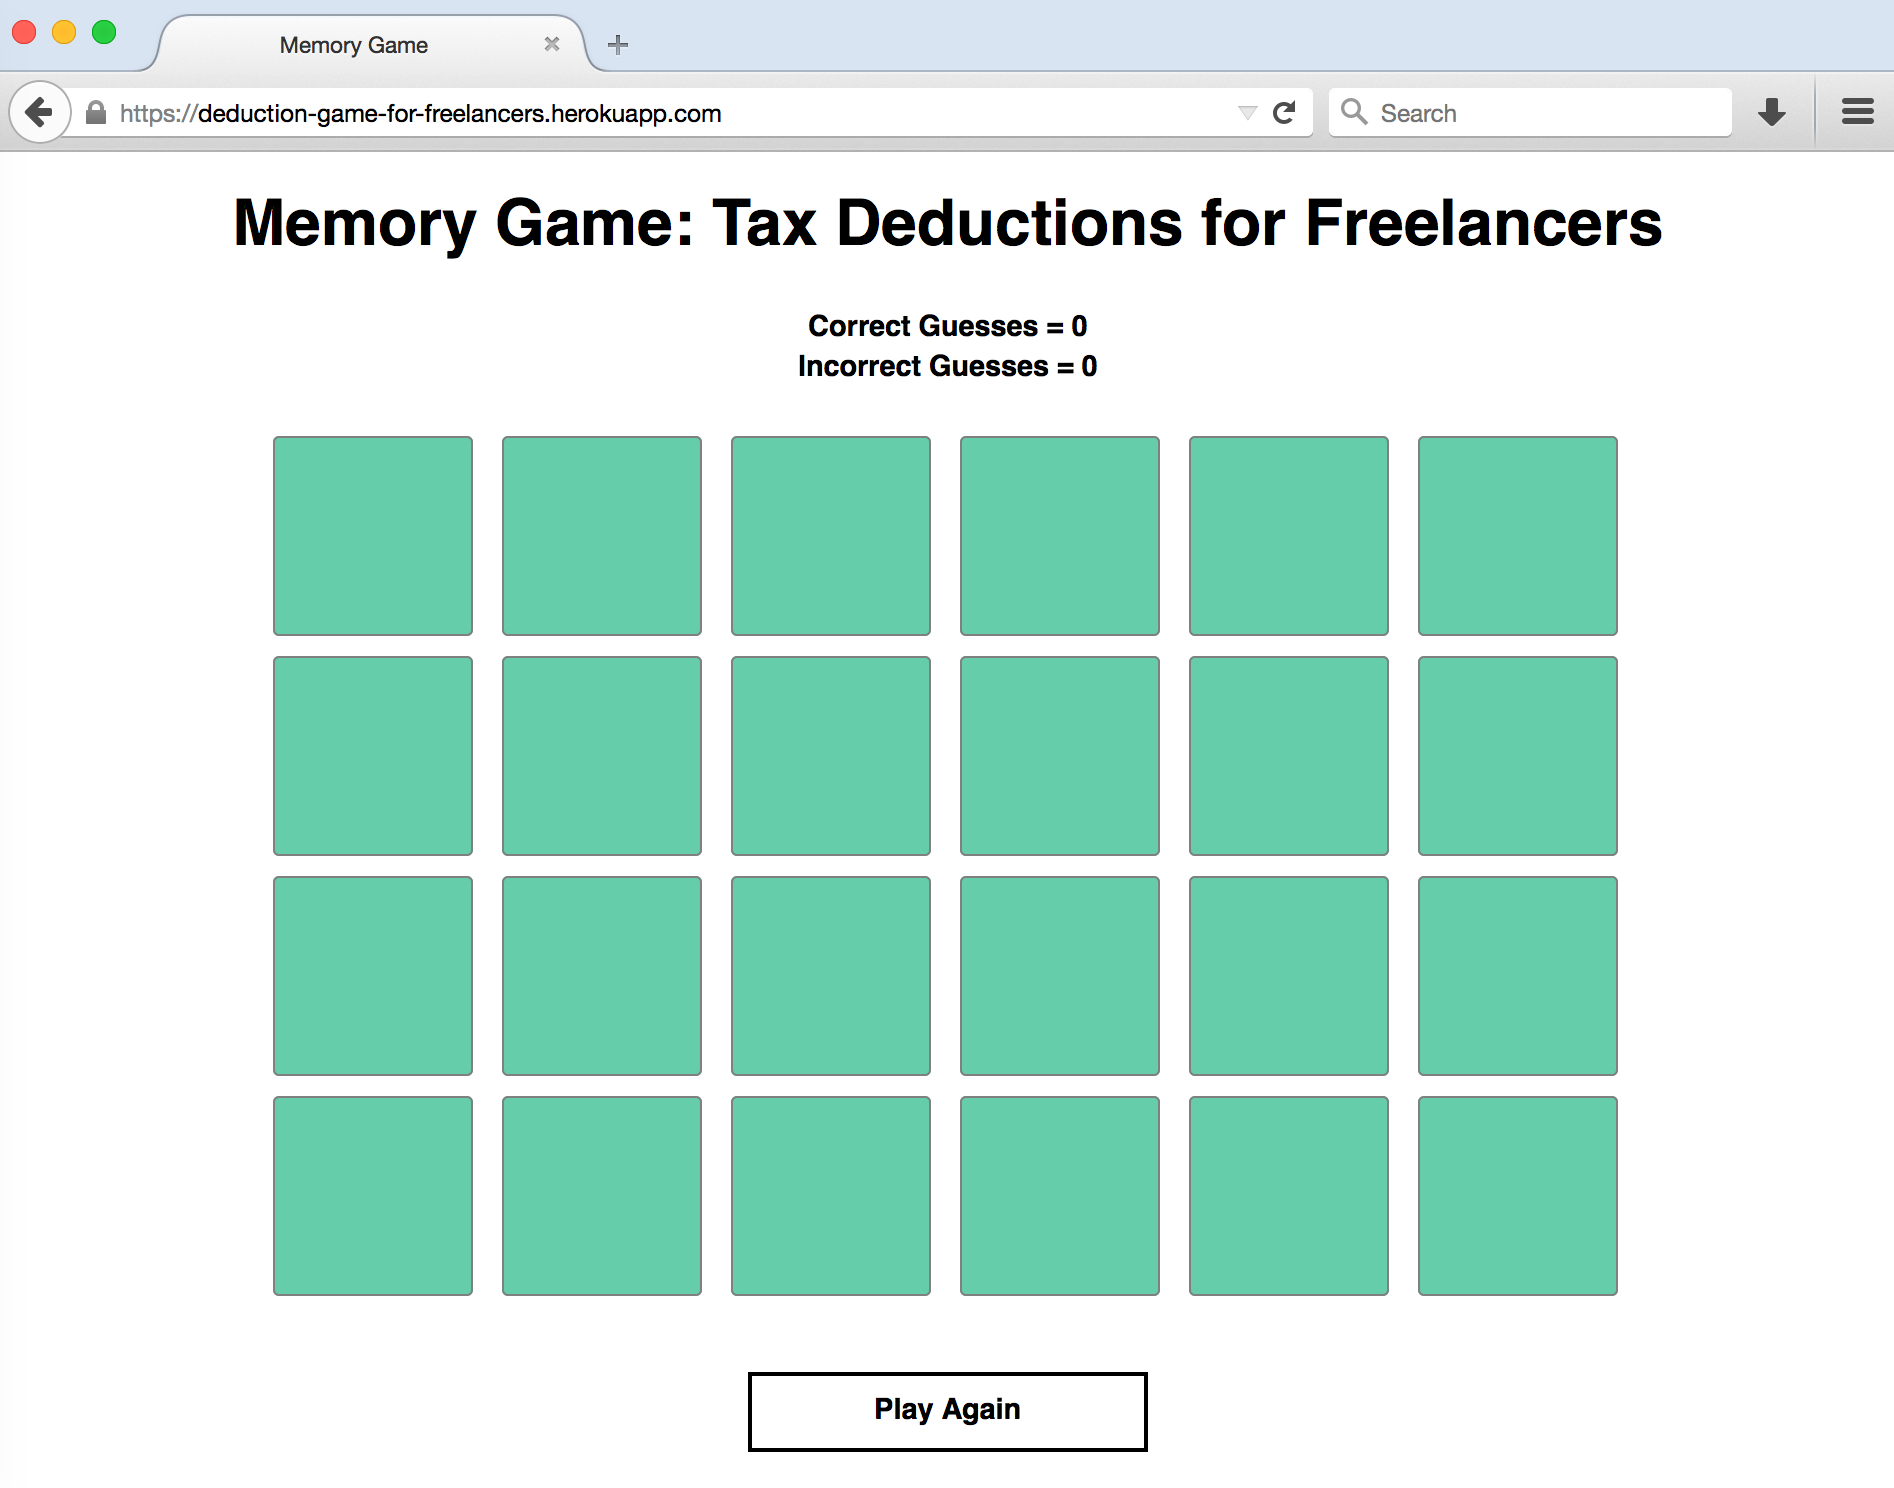
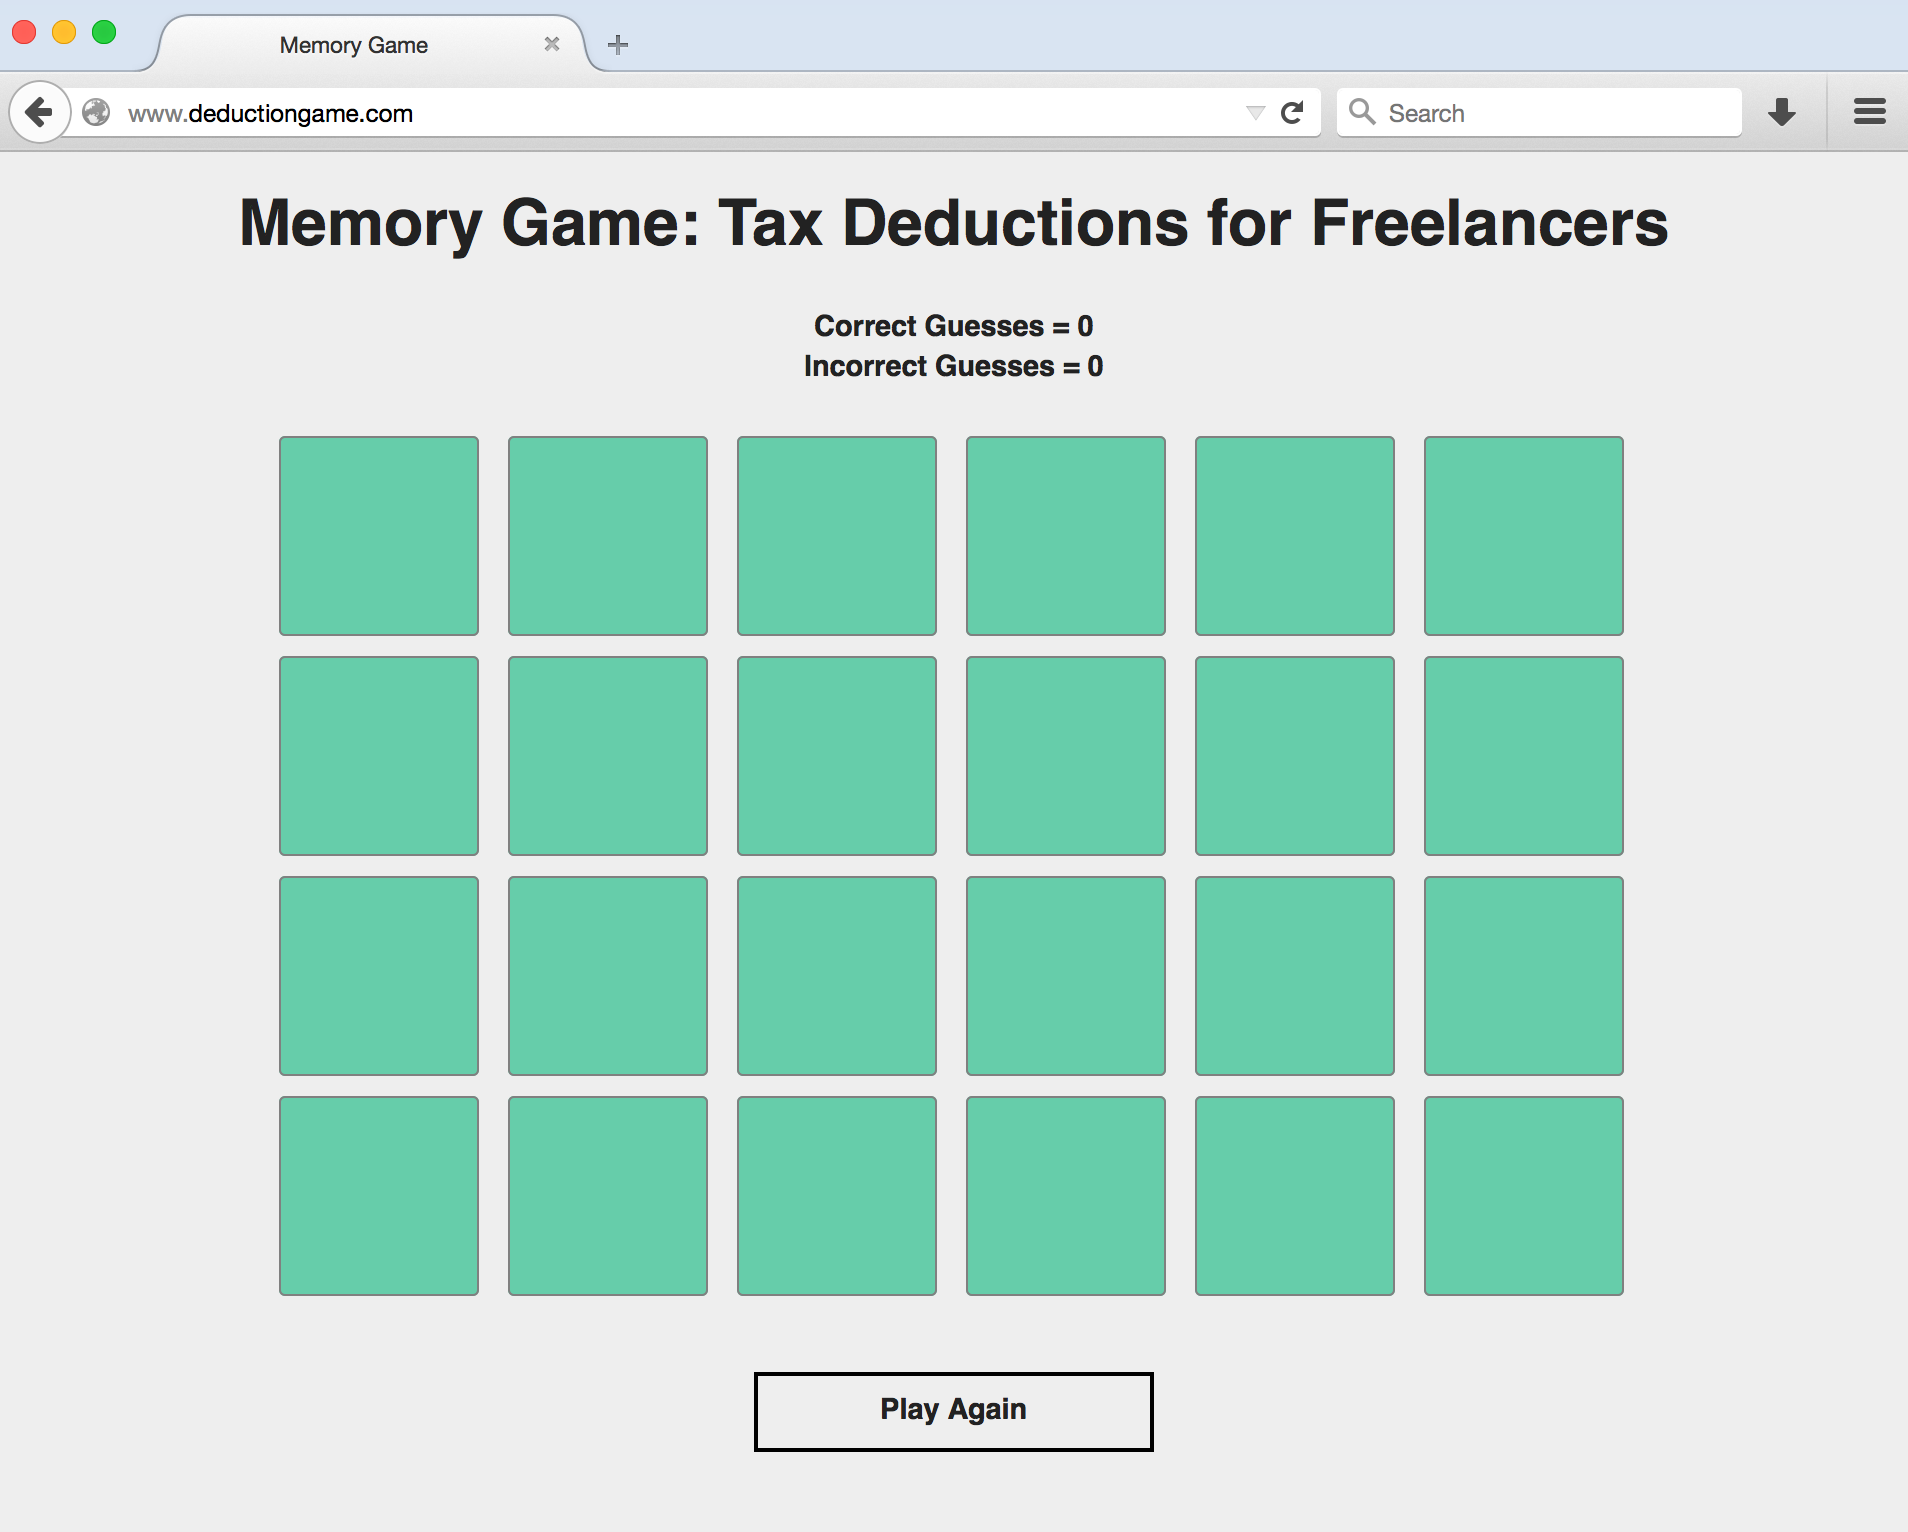
updated links and image for proj 1

Changed region(s): [[0.1246, 0.1237, 0.8722, 0.9583], [0.0, 0.0, 0.9968, 0.1237], [0.2804, 0.0, 0.3115, 0.0309]]

diff --git a/index.html b/index.html
@@ -67,13 +67,13 @@
                         <p class="lead">Technologies: HTML, CSS, JavaScript, jQuery</p>
                         <p>A simple concentration game to help freelance workers become more familiar with self-employed tax benefits.</p><br>
                         <a href="https://github.com/kristingreenslit/GA-Project-1-Game-App/tree/master" class="btn btn-default btn-sm" role="button" target="_blank">Code Repository</a>
-                        <a href="https://deduction-game-for-freelancers.herokuapp.com/" class="btn btn-default btn-sm" role="button" target="_blank">Live Demo</a><br><br><br>
+                        <a href="http://www.deductiongame.com/" class="btn btn-default btn-sm" role="button" target="_blank">Live Demo</a><br><br><br>
                     <!-- <p class="lead">Rails with API Integration</p>
                     <p class="">Description of Project</p>
                     <p class="">Code</p> -->
                 </div>
                 <div class="col-lg-5 col-lg-offset-2 col-sm-6">
-                  <a href="https://deduction-game-for-freelancers.herokuapp.com/" target="_blank"><img class="img-responsive img-thumbnail img1" src=images/memory_game.png></a><br><br>
+                  <a href="http://www.deductiongame.com/" target="_blank"><img class="img-responsive img-thumbnail img1" src=images/memory_game.png></a><br><br>
                 </div>
             </div>
         </div>
